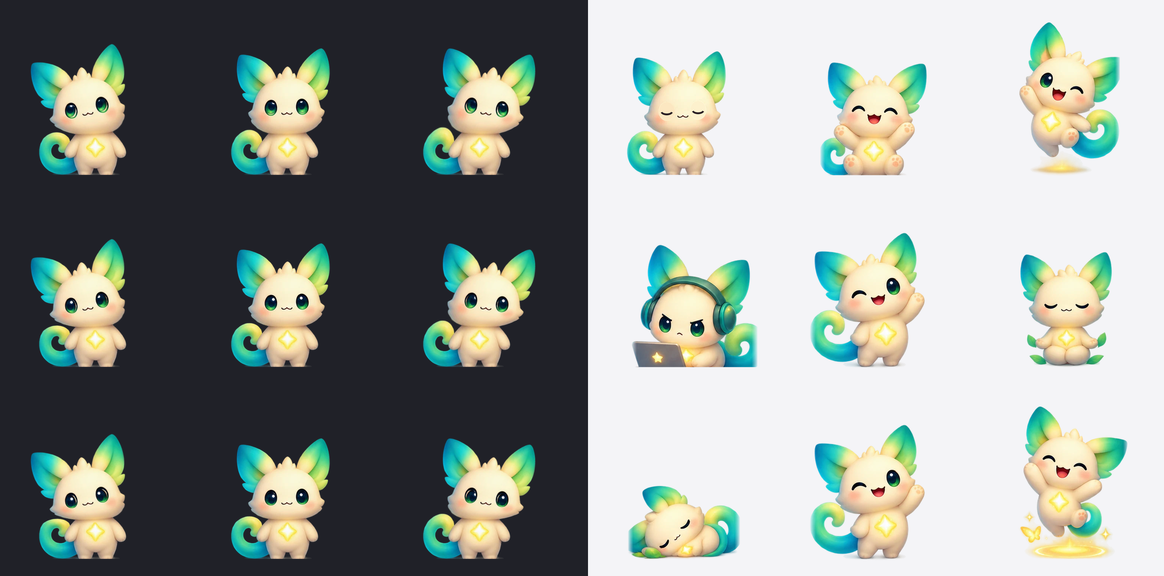
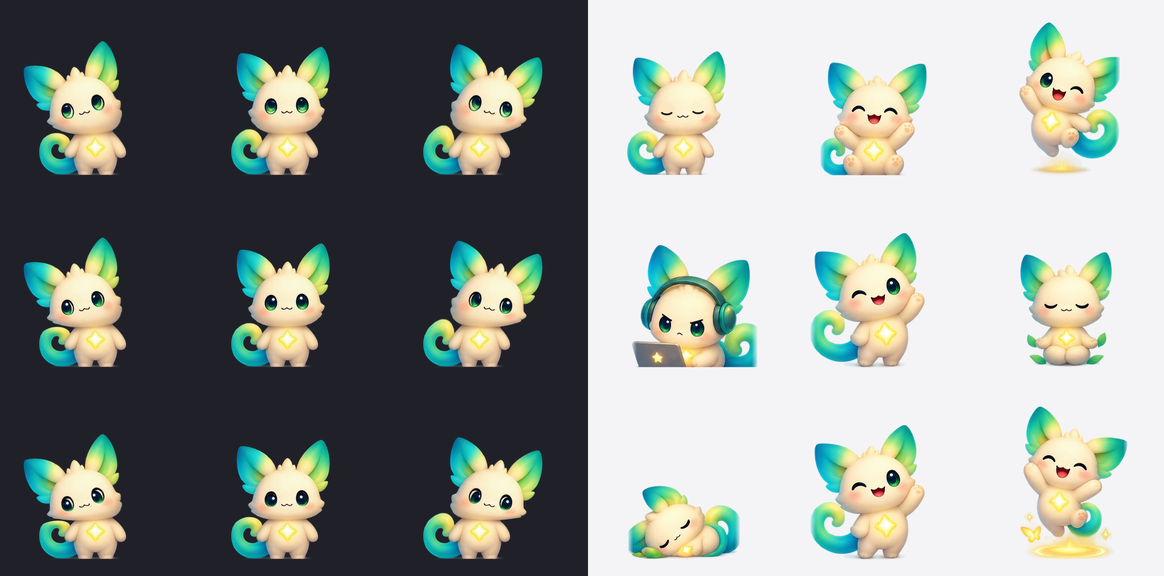
Companion turns like page-mascot's demo, with idle life
Default the companion to page-mascot's fox, whose drawn head turns match
the demo site; Lumi stays in the picker with stronger head turns. The
page-mascot component now lives in the repo so characters blink and look
around while the pointer rests.

diff --git a/src/character/Mascot.tsx b/src/character/Mascot.tsx
@@ -1,0 +1,283 @@
+// Vendored from page-mascot 0.1.0 (https://github.com/nilbuild/page-mascot,
+// MIT, (c) Kamran Ahmed — licence in public/mascots/LICENSE). SynCatch adds
+// idle life on top: a random blink, and looking around while the pointer rests
+// or on devices without one. Everything else is upstream as-is.
+import { useEffect, useRef, useState } from 'react'
+import type { CSSProperties } from 'react'
+
+const DIRECTIONS = [
+  'up-left',
+  'up',
+  'up-right',
+  'left',
+  'center',
+  'right',
+  'down-left',
+  'down',
+  'down-right',
+] as const
+
+const REACTIONS = [
+  'blink',
+  'heart',
+  'sparkle',
+  'surprised',
+  'wink',
+  'bashful',
+  'sleepy',
+  'dizzy',
+  'delighted',
+] as const
+
+type Direction = (typeof DIRECTIONS)[number]
+type Reaction = (typeof REACTIONS)[number]
+
+// Clockwise from the right, matching atan2 with y pointing down.
+const CLOCKWISE: Direction[] = [
+  'right',
+  'down-right',
+  'down',
+  'down-left',
+  'left',
+  'up-left',
+  'up',
+  'up-right',
+]
+const SECTOR = (Math.PI * 2) / CLOCKWISE.length
+const HYSTERESIS = 0.12
+const DEAD_ZONE = 70
+
+const PAYOFFS: Reaction[] = ['heart', 'sparkle', 'delighted']
+const BOOP_PAYOFF = 120
+const BOOP_END = 560
+const SQUASH_MS = 420
+const DIZZY_AFTER = 4
+const DIZZY_WINDOW = 1600
+const DIZZY_END = 1100
+
+// Idle life (SynCatch addition).
+const BLINK_MS = 150
+const BLINK_GAP: [number, number] = [2400, 5600]
+const IDLE_AFTER = 2500
+const GLANCE_GAP: [number, number] = [900, 2400]
+const IDLE_LOOKS: Direction[] = ['center', 'center', 'left', 'right', 'up-left', 'up-right', 'down-left', 'down-right', 'up', 'down']
+
+function between([min, max]: [number, number]) {
+  return min + Math.random() * (max - min)
+}
+
+const SQUASH: Keyframe[] = [
+  { transform: 'scale(1, 1)', easing: 'ease-in' },
+  { transform: 'scale(1.10, 0.86)', offset: 0.18, easing: 'ease-out' },
+  { transform: 'scale(0.95, 1.08)', offset: 0.45, easing: 'ease-in-out' },
+  { transform: 'scale(1.03, 0.97)', offset: 0.72, easing: 'ease-in-out' },
+  { transform: 'scale(1, 1)' },
+]
+
+// background-size 300% makes each cell a clean 0/50/100% step on both axes.
+function cell(index: number): CSSProperties {
+  return { backgroundPosition: `${(index % 3) * 50}% ${Math.floor(index / 3) * 50}%` }
+}
+
+function wrap(angle: number) {
+  return Math.atan2(Math.sin(angle), Math.cos(angle))
+}
+
+const layer: CSSProperties = {
+  position: 'absolute',
+  inset: 0,
+  backgroundSize: '300% 300%',
+  backgroundRepeat: 'no-repeat',
+}
+
+export type MascotProps = {
+  /** The 3x3 sheet of head directions. A served path, or an imported image. */
+  directions: string
+  /** The 3x3 sheet of expressions. */
+  reactions: string
+  size?: number
+  className?: string
+  /** What a screen reader calls it. */
+  label?: string
+}
+
+export function Mascot(props: MascotProps) {
+  const { directions, reactions, size = 140, className, label = 'mascot' } = props
+
+  const buttonRef = useRef<HTMLButtonElement>(null)
+  const squashRef = useRef<HTMLSpanElement>(null)
+  const timersRef = useRef<number[]>([])
+  const boopsRef = useRef({ count: 0, at: 0 })
+  const [direction, setDirection] = useState<Direction>('center')
+  const [reaction, setReaction] = useState<Reaction | null>(null)
+  const [blinking, setBlinking] = useState(false)
+
+  // Blink now and then, like a living thing; a boop reaction takes precedence.
+  useEffect(() => {
+    let timer = 0
+    const next = () => {
+      timer = window.setTimeout(() => {
+        setBlinking(true)
+        timer = window.setTimeout(() => {
+          setBlinking(false)
+          next()
+        }, BLINK_MS)
+      }, between(BLINK_GAP))
+    }
+    next()
+    return () => window.clearTimeout(timer)
+  }, [])
+
+  useEffect(() => {
+    const tracks = window.matchMedia('(hover: hover) and (pointer: fine)').matches
+    const calm = window.matchMedia('(prefers-reduced-motion: reduce)').matches
+
+    let sector = -1
+    let pointer: { x: number; y: number } | null = null
+    let movedAt = 0
+
+    // While the pointer rests (or there is none), glance around on its own.
+    let glanceTimer = 0
+    const glance = () => {
+      glanceTimer = window.setTimeout(() => {
+        if (Date.now() - movedAt > IDLE_AFTER) {
+          sector = -1
+          setDirection(IDLE_LOOKS[Math.floor(Math.random() * IDLE_LOOKS.length)])
+        }
+        glance()
+      }, between(GLANCE_GAP))
+    }
+    if (!calm) {
+      glance()
+    }
+    if (!tracks) {
+      return () => window.clearTimeout(glanceTimer)
+    }
+
+    const aim = () => {
+      const button = buttonRef.current
+      if (!button || !pointer) {
+        return
+      }
+
+      const box = button.getBoundingClientRect()
+      const dx = pointer.x - (box.left + box.width / 2)
+      const dy = pointer.y - (box.top + box.height / 2)
+
+      if (Math.hypot(dx, dy) < DEAD_ZONE) {
+        sector = -1
+        setDirection('center')
+        return
+      }
+
+      // Hold the current sector until the pointer is well past its edge.
+      const angle = Math.atan2(dy, dx)
+      if (sector !== -1 && Math.abs(wrap(angle - sector * SECTOR)) < SECTOR / 2 + HYSTERESIS) {
+        return
+      }
+
+      sector = (Math.round(angle / SECTOR) + CLOCKWISE.length) % CLOCKWISE.length
+      setDirection(CLOCKWISE[sector])
+    }
+
+    const onPointerMove = (event: PointerEvent) => {
+      pointer = { x: event.clientX, y: event.clientY }
+      movedAt = Date.now()
+      aim()
+    }
+
+    window.addEventListener('pointermove', onPointerMove, { passive: true })
+    window.addEventListener('scroll', aim, { passive: true })
+
+    return () => {
+      window.clearTimeout(glanceTimer)
+      window.removeEventListener('pointermove', onPointerMove)
+      window.removeEventListener('scroll', aim)
+    }
+  }, [])
+
+  useEffect(() => {
+    return () => {
+      timersRef.current.forEach(window.clearTimeout)
+    }
+  }, [])
+
+  const boop = () => {
+    timersRef.current.forEach(window.clearTimeout)
+    timersRef.current = []
+
+    const later = (ms: number, next: Reaction | null) => {
+      timersRef.current.push(window.setTimeout(() => setReaction(next), ms))
+    }
+
+    const now = Date.now()
+    const boops = boopsRef.current
+    boops.count = now - boops.at < DIZZY_WINDOW ? boops.count + 1 : 1
+    boops.at = now
+
+    if (boops.count >= DIZZY_AFTER) {
+      boops.count = 0
+      setReaction('dizzy')
+      later(DIZZY_END, null)
+    } else {
+      setReaction('blink')
+      later(BOOP_PAYOFF, PAYOFFS[(boops.count - 1) % PAYOFFS.length])
+      later(BOOP_END, null)
+    }
+
+    if (window.matchMedia('(prefers-reduced-motion: reduce)').matches) {
+      return
+    }
+
+    // Per-keyframe easing with the effect itself linear: an easing on the effect
+    // would reinterpret every offset and front-load the whole bounce.
+    squashRef.current?.animate(SQUASH, { duration: SQUASH_MS, easing: 'linear' })
+  }
+
+  // Inline styles so the file drops into any project without a CSS framework.
+  return (
+    <button
+      ref={buttonRef}
+      type="button"
+      onClick={boop}
+      aria-label={`Boop the ${label}`}
+      className={className}
+      style={{
+        position: 'relative',
+        display: 'block',
+        flexShrink: 0,
+        width: size,
+        height: size,
+        padding: 0,
+        border: 0,
+        background: 'transparent',
+        appearance: 'none',
+        cursor: 'pointer',
+        userSelect: 'none',
+      }}
+    >
+      <span
+        ref={squashRef}
+        style={{ position: 'relative', display: 'block', width: '100%', height: '100%', transformOrigin: '50% 78%' }}
+      >
+        <span
+          style={{
+            ...layer,
+            backgroundImage: `url(${directions})`,
+            ...cell(DIRECTIONS.indexOf(direction)),
+            opacity: reaction || blinking ? 0 : 1,
+          }}
+        />
+        {/* Always mounted so the sheet is fetched up front, never on the first click. */}
+        <span
+          style={{
+            ...layer,
+            backgroundImage: `url(${reactions})`,
+            ...cell(REACTIONS.indexOf(reaction ?? 'blink')),
+            opacity: reaction || blinking ? 1 : 0,
+          }}
+        />
+      </span>
+    </button>
+  )
+}

diff --git a/src/character/mascots.ts b/src/character/mascots.ts
@@ -23,7 +23,10 @@ export const MASCOT_GROUPS = [
   { label: 'Styles', names: ['fox-ink', 'fox-sketch', 'fox-riso', 'fox-paper', 'fox-pixel'] },
 ] as const;
 
-export const DEFAULT_MASCOT = 'lumi';
+/** Lumi's own sheets live in src/assets; everything else is served from public/mascots. */
+const LUMI = 'lumi';
+/** page-mascot's own default; its drawn head turns match the demo site. */
+export const DEFAULT_MASCOT = 'fox';
 
 const KNOWN = new Set<string>(MASCOT_GROUPS.flatMap((group) => group.names));
 
@@ -31,19 +34,20 @@ function served(path: string) {
   return `${import.meta.env.BASE_URL}mascots/${path}`;
 }
 
-/** The two sheets for a character; unknown names (e.g. a removed one still in synced prefs) fall back to Lumi. */
+/** The two sheets for a character; unknown names (e.g. a removed one still in synced prefs) fall back to the default. */
 export function mascotSheets(name: string) {
-  if (name === DEFAULT_MASCOT || !KNOWN.has(name)) return { directions: lumiDirections, reactions: lumiReactions };
+  if (name === LUMI) return { directions: lumiDirections, reactions: lumiReactions };
+  if (!KNOWN.has(name)) name = DEFAULT_MASCOT;
   return { directions: served(`${name}-directions.webp`), reactions: served(`${name}-reactions.webp`) };
 }
 
 export function mascotThumb(name: string) {
   // Lumi has no thumbnail file; its directions sheet is small and already loaded.
-  return name === DEFAULT_MASCOT ? null : served(`thumbs/${name}.webp`);
+  return name === LUMI ? null : served(`thumbs/${name}.webp`);
 }
 
 export function mascotLabel(name: string) {
-  if (name === DEFAULT_MASCOT) return 'Lumi';
+  if (name === LUMI) return 'Lumi';
   if (name === 'redpanda') return 'Red panda';
   const [base, style] = name.split('-');
   const title = base.charAt(0).toUpperCase() + base.slice(1);

diff --git a/src/character/LumiCompanion.tsx b/src/character/LumiCompanion.tsx
@@ -7,7 +7,7 @@ import { useFocusStore } from '../features/focus/focus-store';
 import { useSettingsStore } from '../features/settings/settings-store';
 import { useIsMobile } from '../hooks/use-mobile';
 import { VIEW_LINES } from './characterMessages';
-import { Mascot } from 'page-mascot';
+import { Mascot } from './Mascot';
 import { announceLumi, useCompanionStore, type CompanionMode } from './companion-store';
 import { LumiTrail } from './LumiTrail';
 import { mascotLabel, mascotSheets } from './mascots';

diff --git a/src/features/dashboard/LumiHeroCard.tsx b/src/features/dashboard/LumiHeroCard.tsx
@@ -1,6 +1,6 @@
 import { motion } from 'framer-motion';
 import { ArrowRight, Flame } from 'lucide-react';
-import { Mascot } from 'page-mascot';
+import { Mascot } from '../../character/Mascot';
 import { ButterflyEffect } from '../../character/ButterflyEffect';
 import { useCompanionStore } from '../../character/companion-store';
 import { mascotLabel, mascotSheets } from '../../character/mascots';

diff --git a/src/features/preferences/preferences-types.ts b/src/features/preferences/preferences-types.ts
@@ -71,5 +71,5 @@ export const DEFAULT_COMPANION_SNAPSHOT: CompanionSnapshot = {
   mode: 'stay',
   dialogue: true,
   position: null,
-  character: 'lumi',
+  character: 'fox',
 };

diff --git a/scripts/build-lumi-mascot.py b/scripts/build-lumi-mascot.py
@@ -44,9 +44,9 @@ EYES = [
 
 # Head pose per unit of direction. The cell is chosen by angle, so each turn
 # must read at a glance: tilt toward the pointer, slide the head and glance.
-TURN_DEG = 9.0
-SHIFT = (11.0, 8.0)
-GLANCE = (0.3, 0.24)  # iris travel as a fraction of the eye radius
+TURN_DEG = 14.0
+SHIFT = (16.0, 12.0)
+GLANCE = (0.42, 0.34)  # iris travel as a fraction of the eye radius
 SOCKET_INSET = 0.86  # the shifted iris shows only inside this much of the eye
 
 LID_MARGIN = 6.5
